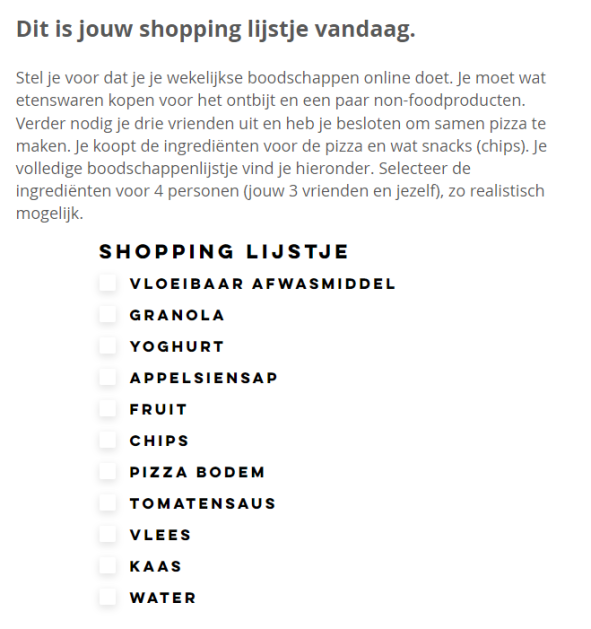
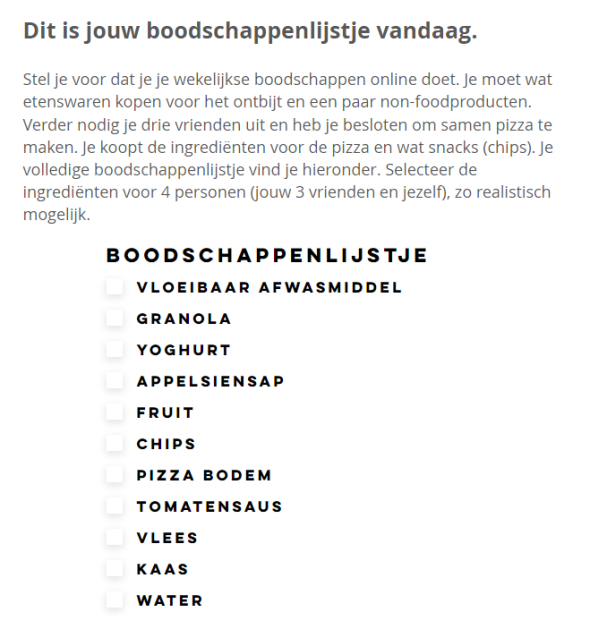
link in treatment

diff --git a/front-end/src/app/trial/trial-config/trial-config.component.html b/front-end/src/app/trial/trial-config/trial-config.component.html
@@ -2,32 +2,20 @@
   <div>
     <h1 class="mb-3">Welkom bij de Virtuele Supermarkt</h1>
     <div class="col">
-      <p>Dit is jouw shopping lijstje vandaag. Let op: dit scherm verdwijnt zodra je het experiment opstart. Om het shoppinglijstje hieronder te blijven raadplegen, heb je twee opties: Ofwel druk je het nu af, of je opent het op een nieuw tabblad via deze link: <a href="https://elkegodden.wixsite.com/shopping-lijstje" target="_blank">https://elkegodden.wixsite.com/shopping-lijstje</a> Na het shoppen zal je doorgestuurd worden naar een korte vragenlijst.</p>
+      <p>Dit is jouw boodschappenlijstje vandaag. Let op: dit scherm verdwijnt zodra je het experiment opstart. Je kan in de winkel het boodschappenlijstje opnieuw raadplegen door op de knop "toon booschappenlijstje" te klikken, of je opent het op een nieuw tabblad via deze link: <a href="https://elkegodden.wixsite.com/shopping-lijstje" target="_blank">https://elkegodden.wixsite.com/shopping-lijstje</a>. Na het shoppen zal je doorgestuurd worden naar een korte vragenlijst.</p>
       <p>Stel je voor dat je je wekelijkse boodschappen online doet. Je moet wat etenswaren kopen voor het ontbijt en een paar non-foodproducten. Verder nodig je drie vrienden uit en heb je besloten om samen pizza te maken. Je koopt de ingrediënten voor de pizza en wat snacks (chips). Je volledige boodschappenlijstje vind je hieronder. Selecteer de ingrediënten voor 4 personen (jouw 3 vrienden en jezelf), zo realistisch mogelijk.</p>
-      <h3>Non-food:</h3>
       <ul>
         <li>Vloeibaar afwasmiddel</li>
-      </ul>
-      <h3>Ontbijt:</h3>
-      <ul>
         <li>Granola</li>
         <li>Yoghurt</li>
         <li>Appelsiensap</li>
         <li>Fruit</li>
-      </ul>
-      <h3>Vriendenavond:</h3>
-      <ul>
         <li>Chips</li>
-        <li>Twee kaarsen</li>
-        <li>Servetten / Keukenrol</li>
         <li>Pizza bodem</li>
         <li>Tomatensaus</li>
         <li>Vlees</li>
         <li>Kaas</li>
-        <li>Ananas</li>
         <li>Water</li>
-        <li>Wijn</li>
-        <li>Basilicum</li>
       </ul>
       <p>Tip: als je zometeen verder gaat en je komt in een lege supermarkt terecht, refresh dan gewoon de pagina. Dit zou het probleem moeten oplossen.</p>
     </div>

diff --git a/front-end/src/app/shared/header/header.component.html b/front-end/src/app/shared/header/header.component.html
@@ -3,13 +3,13 @@
     <a style="cursor: pointer" [routerLink]="[baseURL]"><span>{{titel}}</span></a>
     <span class="example-spacer"></span>
     <div>
-      <button (click)="openModal()">Toon shopping lijst</button>
+      <button (click)="openModal()">Toon booschappenlijstje</button>
     </div>
   </mat-toolbar-row>
 </mat-toolbar>
 
-<div id="myModal" class="modal" [hidden]="!modalVisible">
-  <span class="close" (click)="closeModal()">&times;</span>
+<div id="myModal" class="modal" (click)="closeModal()" [hidden]="!modalVisible">
+  <span class="close">&times;</span>
   <img class="modal-content" id="list-img" [src]="modalImageSrc">
   <div id="caption">{{ modalCaption }}</div>
 </div>

diff --git a/front-end/src/app/trial/shopping-metrics/shopping-metrics.component.html b/front-end/src/app/trial/shopping-metrics/shopping-metrics.component.html
@@ -6,6 +6,7 @@
     <button [disabled]="items.length < minNumItems" (click)="endTrial()" mat-raised-button>Shopping afsluiten en naar de enquête</button>
   </div>
   <div *ngIf="items.length < minNumItems" class="alert alert-info" role="alert">
-    Kies minstens {{minNumItems}} verschillende producten. 
+    <!-- Kies minstens {{minNumItems}} verschillende producten.  -->
+    Er staat nog iets op uw boodschappenlijstje!
   </div>
 </div>

diff --git a/front-end/src/app/trial/shopping-metrics/shopping-metrics.component.ts b/front-end/src/app/trial/shopping-metrics/shopping-metrics.component.ts
@@ -53,6 +53,8 @@ export class ShoppingMetricsComponent implements OnInit {
 
   get minNumItems() {
     const subjectOptions = this.trialTreatmentService.getSujectOptions();
+    console.log(subjectOptions.minAmountOfItemsPurchased);
+    console.log(subjectOptions);
     if (!subjectOptions) { return 0 }
     return subjectOptions.minAmountOfItemsPurchased ? subjectOptions.minAmountOfItemsPurchased : 0;
   }

diff --git a/front-end/src/app/shared/header/header.component.scss b/front-end/src/app/shared/header/header.component.scss
@@ -67,7 +67,7 @@ a:hover {
   
   /* The Modal (background) */
   .modal {
-    display: none; /* Hidden by default */
+    display: block; /* Hidden by default */
     position: fixed; /* Stay in place */
     z-index: 1; /* Sit on top */
     padding-top: 100px; /* Location of the box */
